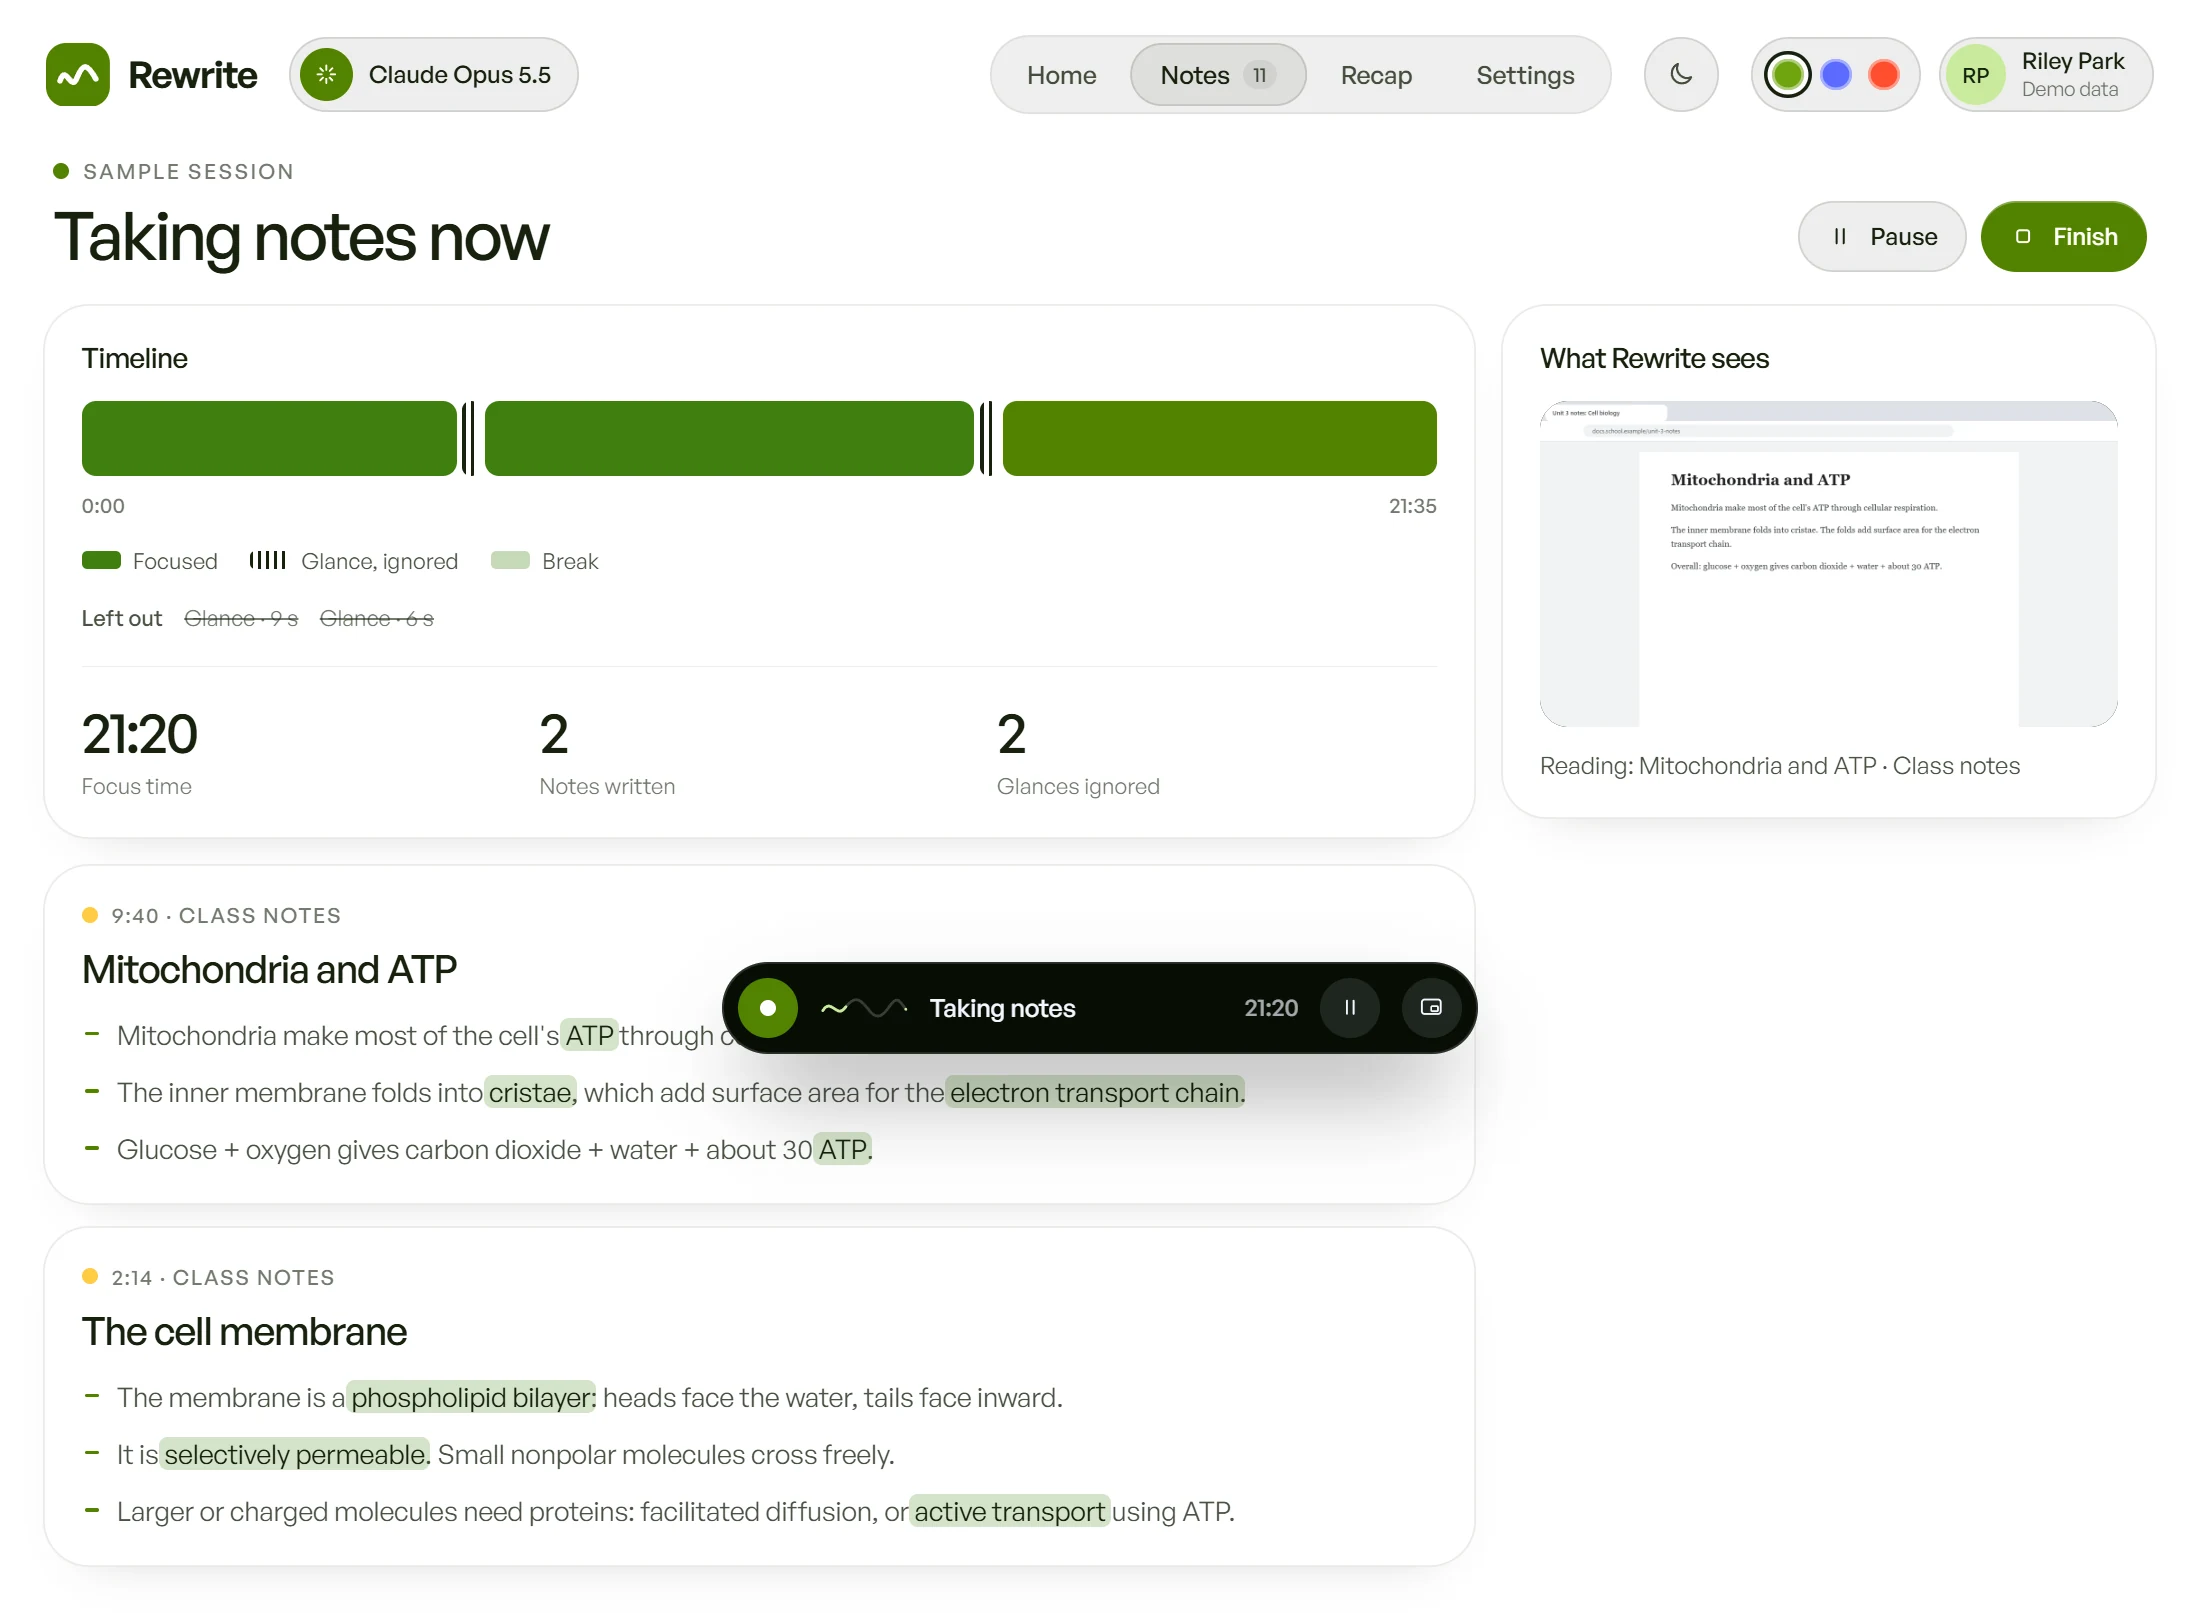
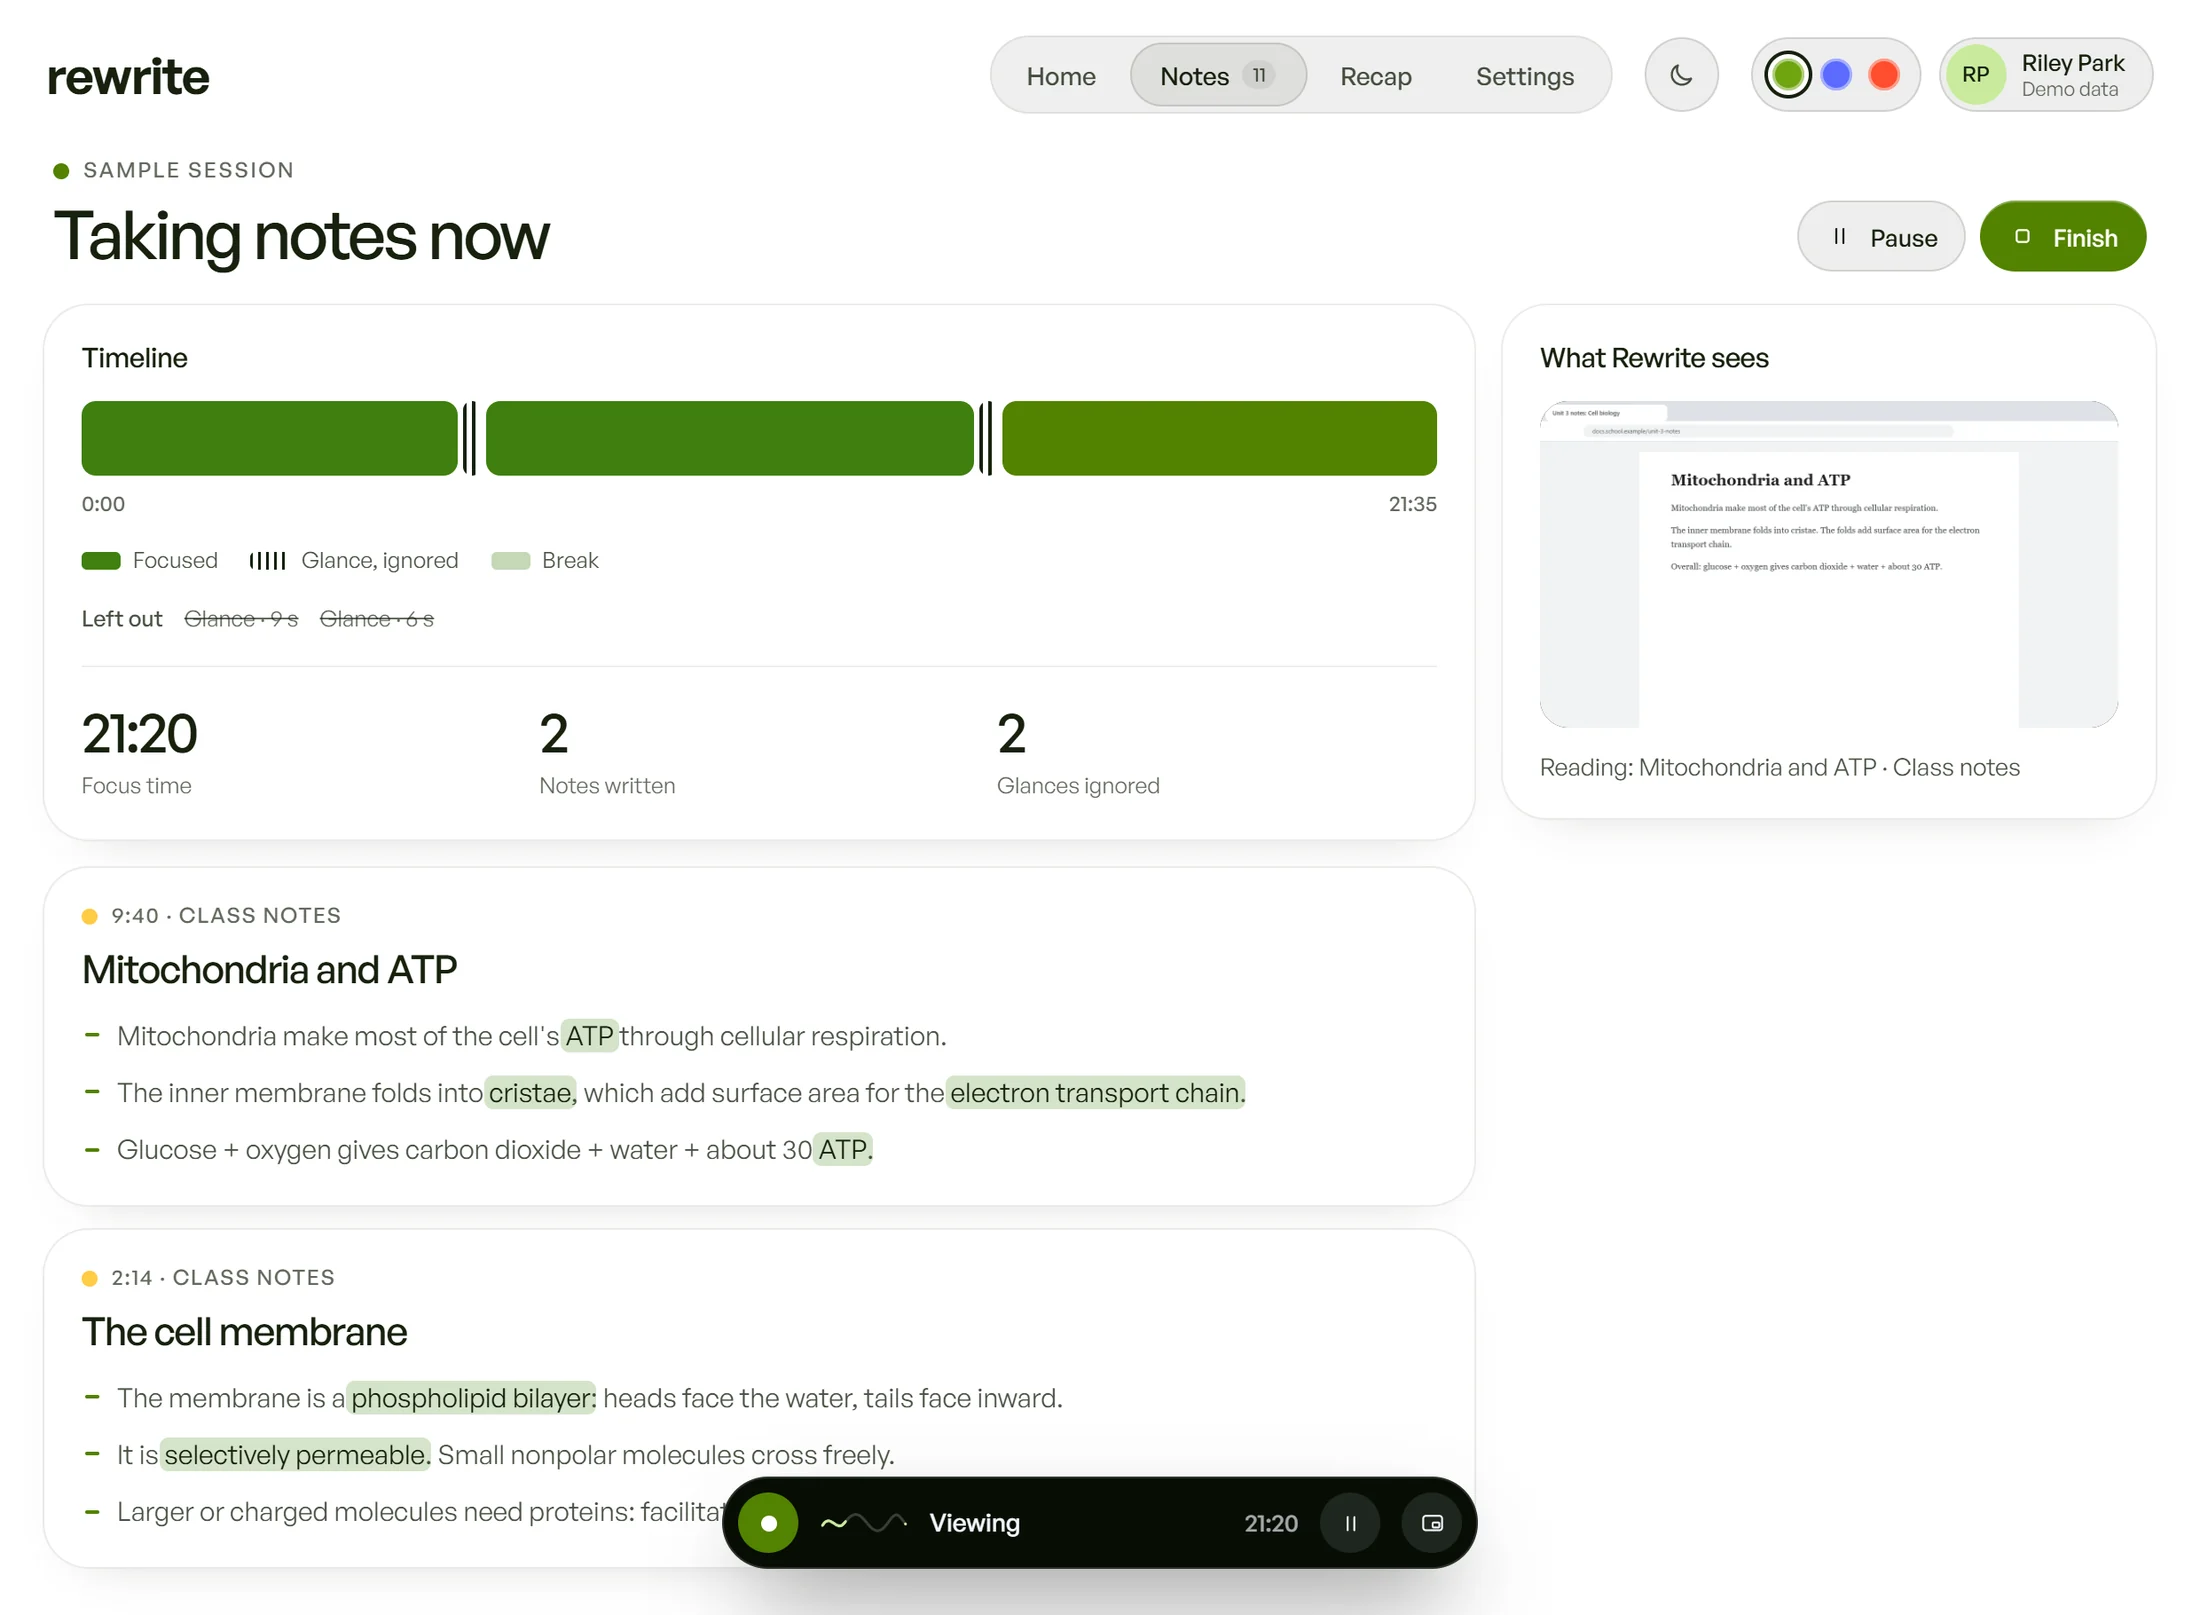
Landing: product shots retaken from the current app; page fits the window once the scrollbar appears
- The four product pictures still showed the old header (logo mark and model chip). They are fresh captures of the app as it is now.
- The page measured its width before the scrollbar existed and stayed 15 px too wide. It now re-fits whenever its width changes.
- Second FAQ thumbnail re-aimed at the session timeline.

diff --git a/index.html b/index.html
@@ -455,7 +455,7 @@ footer a:hover{color:#fff}
       <p class="sub pre">Rewrite watches your screen while you work or study<br>and writes the notes. Quick glances don't count.</p>
       <div class="cta-w pre"><a class="btn g" href="app.html?sample=1"><span class="play"></span>Watch Demo</a></div>
     </div>
-    <div class="shot" id="shot"><img src="assets/app-recap.webp" alt="The Rewrite recap screen: focus time, notes written and glances ignored for the week, a chart of focus time by day, and the latest sessions." width="2200" height="1802"></div>
+    <div class="shot" id="shot"><img src="assets/app-recap.webp" alt="The Rewrite recap screen: focus time, notes written and glances ignored for the week, a chart of focus time by day, and the latest sessions." width="2200" height="1803"></div>
   </section>
 
   <section class="say" id="say">
@@ -518,14 +518,14 @@ footer a:hover{color:#fff}
 
   <section class="board" id="board">
     <div class="panel-h"><h2>Complete session history<em>one notes board</em></h2><p>Every note is filed by topic.<br>Drag one to another column to re-file it.</p></div>
-    <div class="stage"><img id="bshot" src="assets/app-notes.webp" alt="The Notes board: four subject columns holding eleven note cards." width="2200" height="1364"></div>
+    <div class="stage"><img id="bshot" src="assets/app-notes.webp" alt="The Notes board: four subject columns holding eleven note cards." width="2200" height="1375"></div>
   </section>
 
   <section class="words" id="words">
     <div class="wrap">
       <div class="words-h"><h2 class="tight">Written from your screen<em>not from memory</em></h2><p>These are notes from the built-in sample session, as Rewrite wrote them. Press play to watch it happen.</p></div>
       <div class="w-grid">
-        <a class="w m" href="app.html?sample=1" aria-label="Play the sample session"><div class="row"><span class="tag">Sample session</span><span>0:50</span></div><img class="peek" src="assets/app-live.webp" alt="" width="2200" height="1613"><span class="pl"></span><div class="by"><i style="--c:#FFCB45">B</i><span><b>Cell biology</b><small>Three notes, two glances ignored</small></span></div></a>
+        <a class="w m" href="app.html?sample=1" aria-label="Play the sample session"><div class="row"><span class="tag">Sample session</span><span>0:50</span></div><img class="peek" src="assets/app-live.webp" alt="" width="2200" height="1615"><span class="pl"></span><div class="by"><i style="--c:#FFCB45">B</i><span><b>Cell biology</b><small>Three notes, two glances ignored</small></span></div></a>
         <div class="w"><div class="row"><span class="tag">Sample note</span><span>0:13</span></div><blockquote>The membrane is a phospholipid bilayer: heads face the water, tails face inward. It is selectively permeable.</blockquote><div class="by"><i style="--c:#FFCB45">B</i><span><b>The cell membrane</b><small>Class notes, Biology</small></span></div></div>
         <div class="w"><div class="row"><span class="tag">Sample note</span><span>0:36</span></div><blockquote>Mitochondria make most of the cell's ATP through cellular respiration. The inner membrane folds into cristae.</blockquote><div class="by"><i style="--c:#8FB8FF">B</i><span><b>Mitochondria and ATP</b><small>Class notes, Biology</small></span></div></div>
       </div>
@@ -550,7 +550,7 @@ footer a:hover{color:#fff}
     <h2>Common <span>Questions</span></h2>
     <div class="q-list" id="qs">
       <div class="q open"><div class="th" style="background-image:url(assets/app-live.webp);background-size:250%;background-position:3% 30%"></div><div><button aria-expanded="true" aria-controls="a1">Does Rewrite record my screen?<svg viewBox="0 0 24 24" fill="none" stroke="currentColor" stroke-width="1.8" stroke-linecap="round" stroke-linejoin="round" aria-hidden="true"><path d="m6 9 6 6 6-6"/></svg></button><div class="a" id="a1"><div><p>It looks at about one still frame a second while a session is on, and nothing is saved as video. With Claude, a few still frames are sent to Anthropic to be read. With "On this laptop", your screen is never sent.</p></div></div></div></div>
-      <div class="q"><div class="th" style="background-image:url(assets/app-home.webp);background-size:300%;background-position:0 49%"></div><div><button aria-expanded="false" aria-controls="a2">What counts as a glance?<svg viewBox="0 0 24 24" fill="none" stroke="currentColor" stroke-width="1.8" stroke-linecap="round" stroke-linejoin="round" aria-hidden="true"><path d="m6 9 6 6 6-6"/></svg></button><div class="a" id="a2"><div><p>A visit to a social, chat, music or video app that lasts less than 20 seconds (you can set 5 to 60). Rewrite recognises these on your laptop and leaves them out. Switching to anything else, like another doc or an AI assistant, is kept as part of your work.</p></div></div></div></div>
+      <div class="q"><div class="th" style="background-image:url(assets/app-home.webp);background-size:300%;background-position:35% 45%"></div><div><button aria-expanded="false" aria-controls="a2">What counts as a glance?<svg viewBox="0 0 24 24" fill="none" stroke="currentColor" stroke-width="1.8" stroke-linecap="round" stroke-linejoin="round" aria-hidden="true"><path d="m6 9 6 6 6-6"/></svg></button><div class="a" id="a2"><div><p>A visit to a social, chat, music or video app that lasts less than 20 seconds (you can set 5 to 60). Rewrite recognises these on your laptop and leaves them out. Switching to anything else, like another doc or an AI assistant, is kept as part of your work.</p></div></div></div></div>
       <div class="q"><div class="th" style="background-image:url(assets/app-notes.webp);background-size:230%;background-position:0 78%"></div><div><button aria-expanded="false" aria-controls="a3">Do I need an API key?<svg viewBox="0 0 24 24" fill="none" stroke="currentColor" stroke-width="1.8" stroke-linecap="round" stroke-linejoin="round" aria-hidden="true"><path d="m6 9 6 6 6-6"/></svg></button><div class="a" id="a3"><div><p>No. "On this laptop" reads the text on your screen in the browser and pulls out the key lines. A Claude key gives better notes, plus takeaways and a quiz.</p></div></div></div></div>
     </div>
   </section></div>
@@ -585,6 +585,8 @@ toTop();addEventListener('load',toTop);addEventListener('pageshow',toTop);
 let Z=1;
 const fit=()=>{const w=window.visualViewport?visualViewport.width:innerWidth;Z=clamp(w/1468,.5,2.4);root.style.zoom=Z};
 fit();addEventListener('resize',fit);
+// the first fit runs while the loader holds the page still and there is no scrollbar yet; fit again whenever the page gets or loses one
+new ResizeObserver(fit).observe(root);
 
 /* ---- loading screen and intro ----
    The page starts as the wordmark alone over the sky and the hills. A pen line under it is written across
